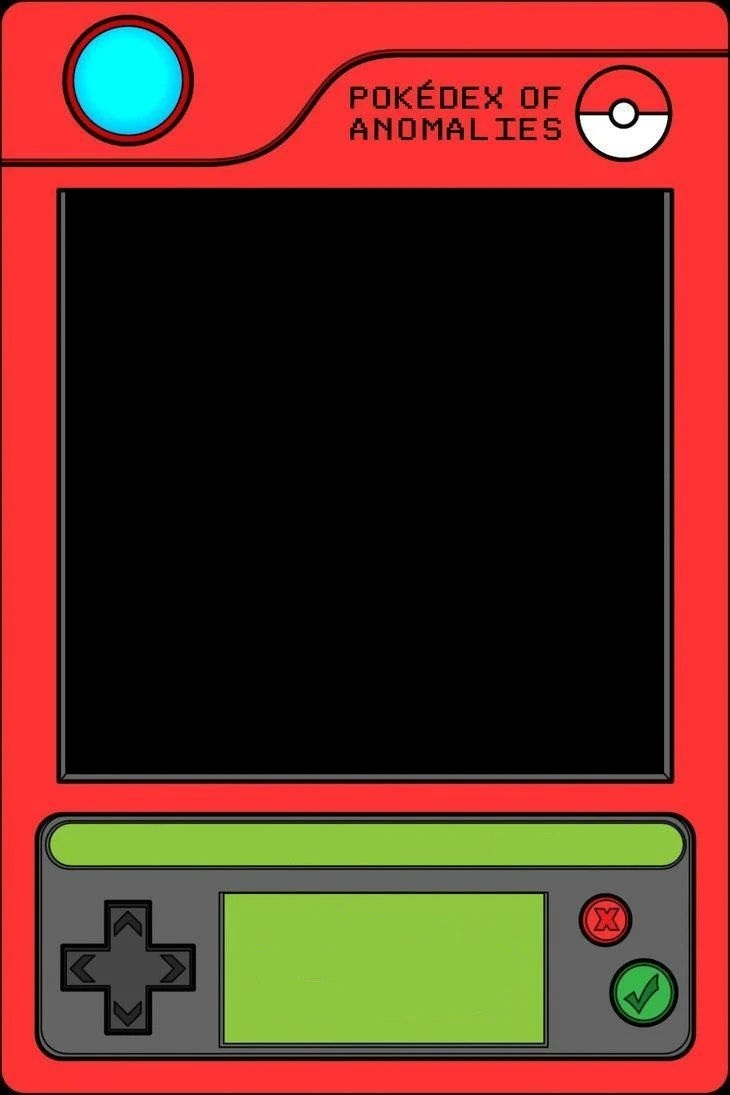
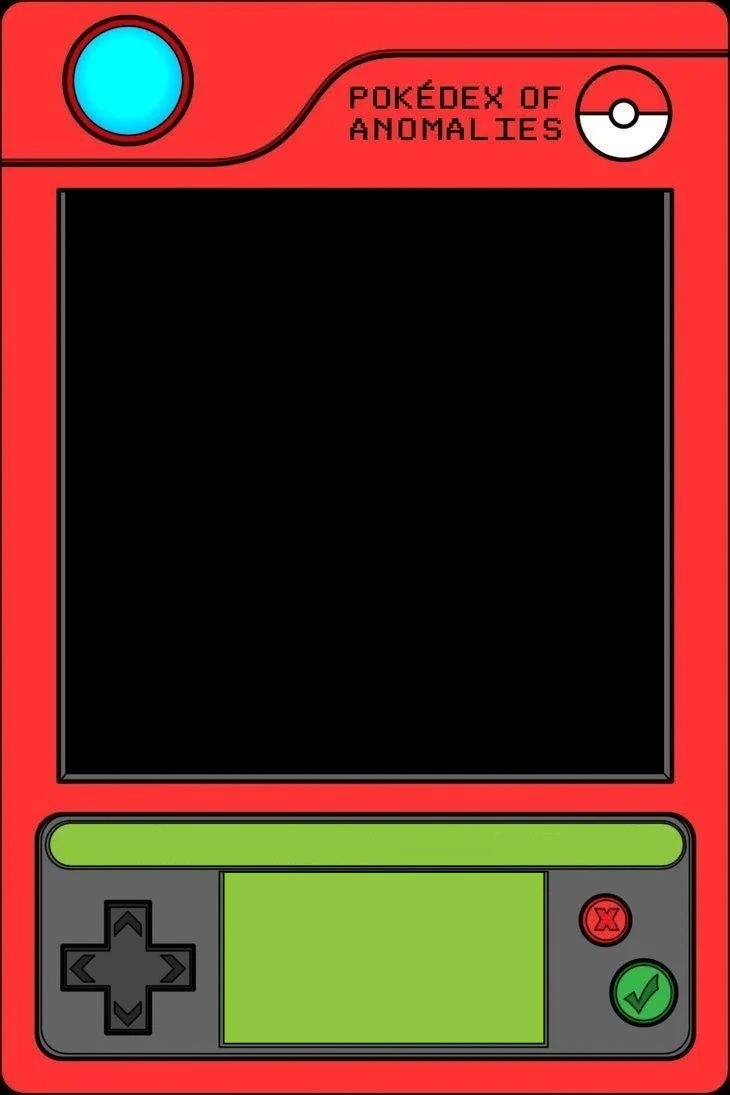
-Correção CSS
-Correção de espaço e posicionamento do CSS do espaço de informações efetuado!

Changed region(s): [[0.3014, 0.7763, 0.7534, 0.8384]]

diff --git a/styles/index.css b/styles/index.css
@@ -215,10 +215,10 @@ body{
     justify-content: center;
     align-items: center;
     flex-wrap: wrap;
-    /* border:1px solid rgb(6, 253, 6); */
+    /* border:2px solid rgb(6, 253, 6); */
     right: 25.4%;
     width: 44%;
-    height: 13.3%;
+    height: 15.5%;
     bottom:5%;
     display: none;
 }
@@ -226,54 +226,60 @@ body{
 
 #espacoTipo{
     display: flex;
-    flex-direction: row;
-    /* border:1px solid black; */
-    height: 33%;
+    justify-content: flex-start;
+    align-items: flex-start;
+    flex-direction: column;
+    /* border:1px solid black;  */
+    height: 33.3%;
     width: 100%;
 }
+
 #espacoAltura{
     display: flex;
-    flex-direction: row;
-    /* border:1px solid black; */
-    height: 33%;
+    flex-direction: column;
+    /* border:1px solid black;  */
+    height: 33.3%;
     width: 100%;
 }
 #espacoPeso{
     display: flex;
-    flex-direction: row;
+    flex-direction: column;
     /* border:1px solid black; */
-    height: 33%;
+    height: 33.3%;
     width: 100%;
 }
 
 #espacoTipo span{
     display: flex;
-    align-items: center;
+    align-items: flex-start;
     justify-content: center;
 }
 #espacoAltura span{
     display: flex;
     align-items: center;
+    height: 50%;
 }
 #espacoPeso span{
     display:flex;
     align-items: center;
 }
 
-
+#spanTipo{
+    height: 50%
+}
 
 #tipoPokemon1{
-    width: 40%;
+    width: 50%;
     height: 100%;
     display: flex;
     justify-content: center;
     font-size: 11px;
     color: rgb(34, 34, 34);
-    /* border:1px solid black; */
+    /* border:1px solid rgb(255, 4, 4); */
 
 }
 #tipoPokemon2{
-    width: 40%;
+    width: 50%;
     height: 100%;
     display: flex;
     justify-content: center;
@@ -283,7 +289,7 @@ body{
 }
 
 #alturaPokemon{
-    width: 80%;
+    width: 100%;
     height: 100%;
     display: flex;
     justify-content: center;
@@ -293,9 +299,10 @@ body{
     /* border:1px solid red; */
 }
 #pesoPokemon{
-    width: 80%;
+    width: 100%;
     height: 100%;
     display: flex;
+    align-items: flex-start;
     justify-content: center;
     font-size: 11px;
     color: rgb(34, 34, 34);

diff --git a/index.html b/index.html
@@ -71,16 +71,18 @@
                 </div> 
                 <div id="divInformacoes">
                     <div id="espacoTipo">
-                        <span>Tipo: </span>
-                        <span id="tipoPokemon1"></span>
-                        <span id="tipoPokemon2"></span>
+                        <span id="spanTipo">Tipo: </span>
+                        <div style="display: flex; flex-direction: row; height: 50%; width: 100%;">
+                            <span id="tipoPokemon1"></span>
+                            <span id="tipoPokemon2"></span>
+                        </div>
                     </div>
                     <div id="espacoAltura">
                         <span>Altura: </span>
                         <span id="alturaPokemon"></span>
                     </div>
                     <div id="espacoPeso">
-                        <span>Peso: </span>
+                        <span style="height: 33%">Peso: </span>
                         <span id="pesoPokemon"></span>
                     </div>                   
                 </div>

diff --git a/scripts/index.js b/scripts/index.js
@@ -24,8 +24,8 @@ const nome = () => {
         if(data.types[1]){
             document.getElementById("tipoPokemon1").innerText=data.types[0].type.name;
             document.getElementById("tipoPokemon2").style.display="flex";
-            document.getElementById("tipoPokemon1").style.width="40%";
-            document.getElementById("tipoPokemon2").style.width="40%";      
+            document.getElementById("tipoPokemon1").style.width="50%";
+            document.getElementById("tipoPokemon2").style.width="50%";      
             return document.getElementById("tipoPokemon2").innerText=data.types[1].type.name;
         }else if(!data.types[1]){
             document.getElementById("tipoPokemon1").innerText=data.types[0].type.name;
